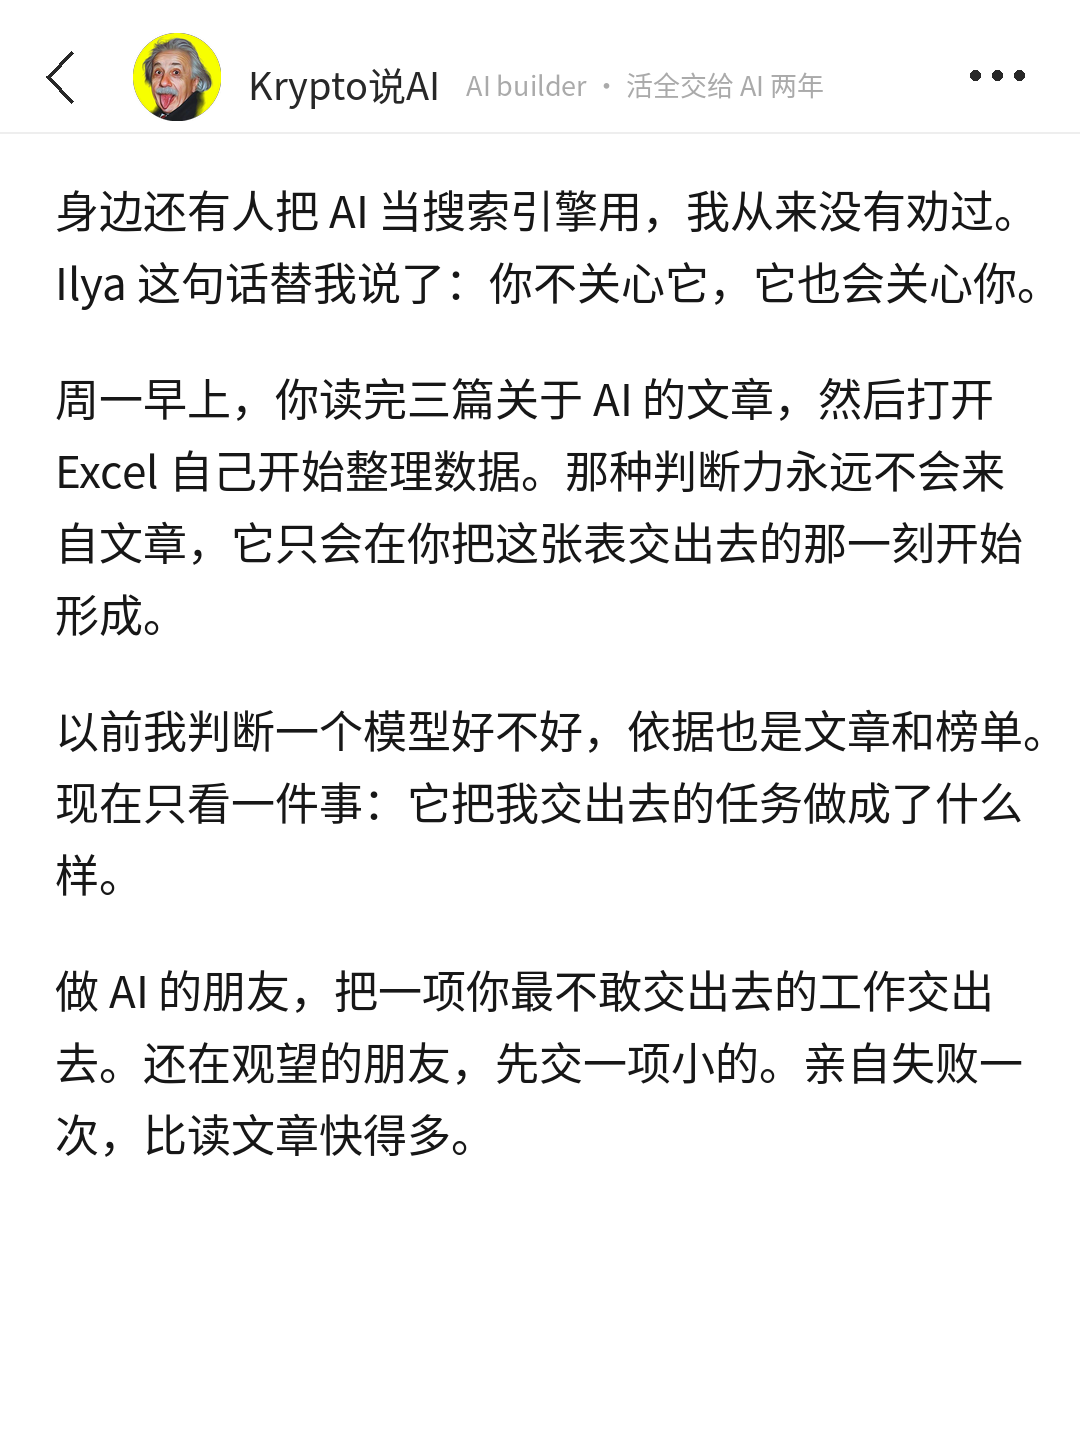
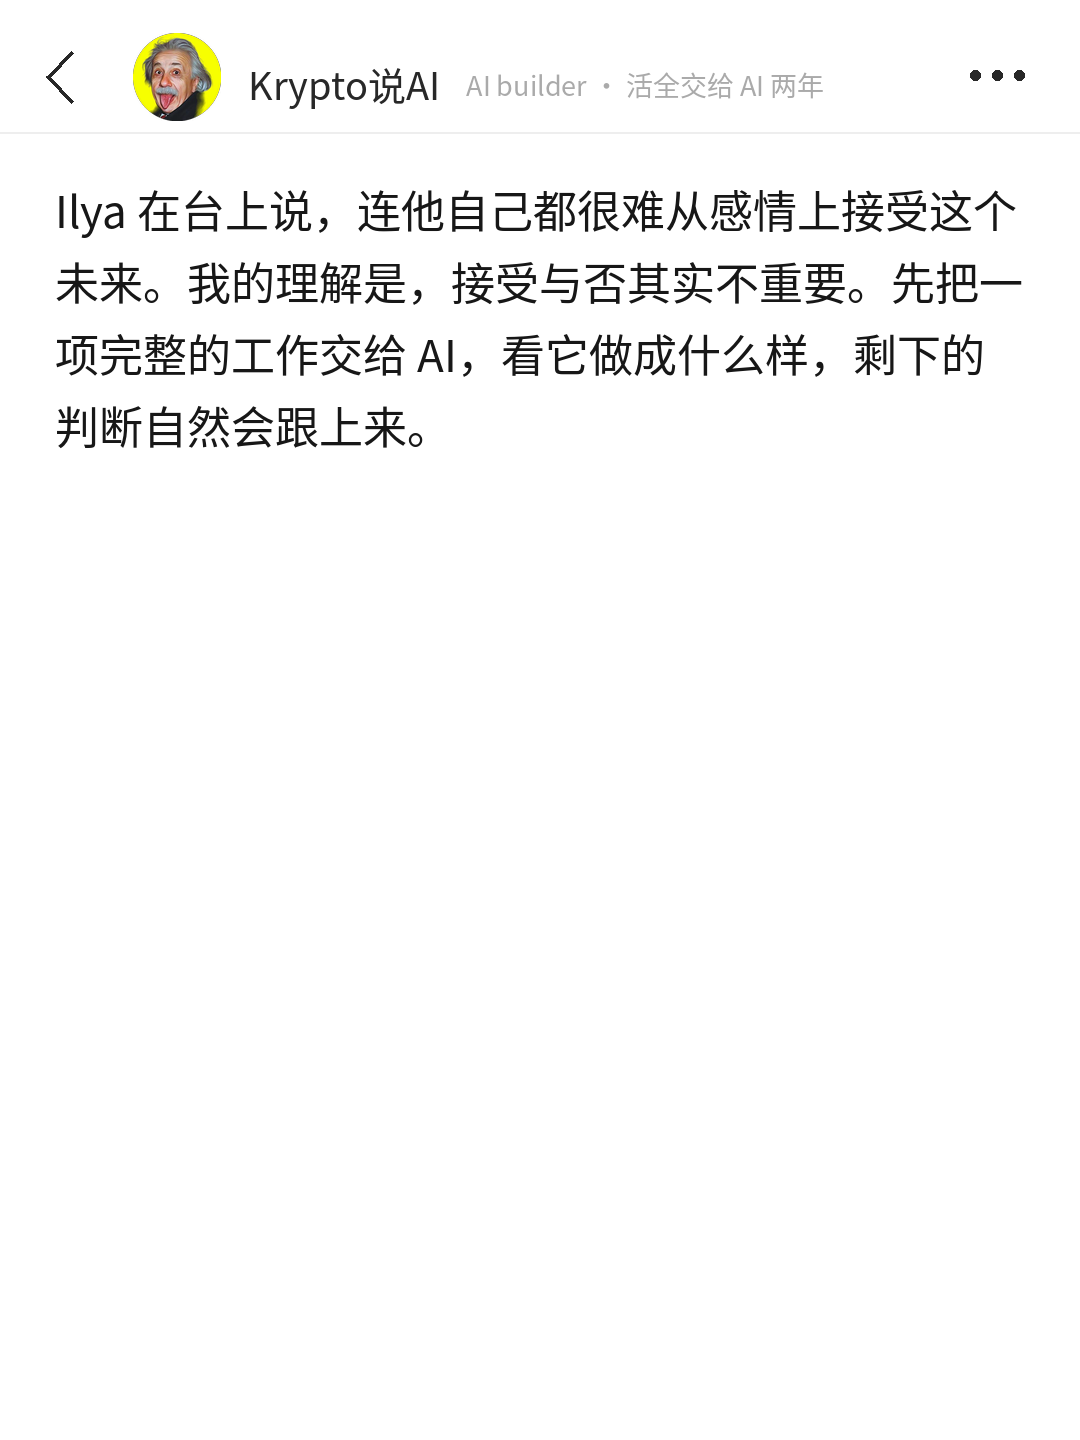
Ilya 稿末页去掉叠加的四个槽位；v2 撤「你」段必放、结尾一种就够
Claude-Session: https://claude.ai/code/session_017tvE9f3JBJNdHBN9dZEhix

diff --git a/CLAUDE.md b/CLAUDE.md
@@ -3,7 +3,7 @@
 这个仓库是小红书账号 **Krypto说AI** 的工作区，也是它的记忆。在这里做的每一篇稿子，先读本页，再读 `账号/档案.md`、`账号/经历库.md` 和 `账号/爆文方法论.md`（10-14 起，选题 / 标题 / 首图 / 原文跟发的发前清单，交付时逐条写过没过）。每次用户说了新的经历、新的观点、新的规则，写回这两份文件并更新本页摘要，不要只留在对话里。
 
 ## 摘要
-- **10-21 Ilya 多伦多演讲稿（meme-v2 第 2 篇，观察，value 行动，立场 B，`发布/2026-10-21_ilya-uoft-speech/meme-v2版/`，8 页）**：素材是用户发来的两段视频（@XAngus 字幕版，Ilya 2025-06-06 多伦多大学荣誉学位演讲，各 4 分 51 秒）。云端拿不到 Whisper 模型（HF 被代理拦，镜像也 403），改用 rapidocr 读烧录字幕：part1 逐秒 OCR（291 帧跑了 10 分钟，用户说「不用跑每一帧」），part2 改用 ffmpeg 场景切换只抽字幕变化帧（103 帧）。逐字稿在 `编辑用/source.md`，十张截图在 `编辑用/shots/`（都带人脸 + 关键字幕）。用户没走先问（「即可」），默认：stance「对 AI 的直觉买不来也读不来，只能拿自己的一件活去换」（B），「我」用 #18 #9 #19，代价是 #9 Codex 定时 sites（代价列已填），回指 10-18 Anthropic 就业稿。标题「Ilya毕业演讲：AI会做你能做的一切」，备选「强烈建议看看Ilya这场毕业演讲。」「Ilya说的，很多人只听了前半句。」。check.py 0 ✗；修了 check.py 两处（刚好正则的或运算没加括号、回指正则漏「那篇时我提过」）。以后视频素材没字幕走 OCR 时，直接用场景切换抽帧，不逐秒。**用户看稿后退两处**：「他」太频繁（21 个，每千字 18）、五句字幕翻译腔（「这话常有人说，这次是真的」「他只给一点」「还得追赶」「他引了一句话」「直觉会越来越强」）。改后「他」5 个；v2 指南 §5 加两条换性质的规则：转述主语轮着来（名字 / 省略 / 内容当主语 / 原话，「他」每千字 ≤8，check.py ⚠）、字幕和转录来的句子不照字面转述。改前存 `draft_v1_他太多.md`。**三退（用户定 v2 用词口径）**：划「有人说三年就到」「拿自己的活去换」「我自己量出来的」「有没有长出来」「那该怎么办？他借了……」，原话「动词用『到』这种单字，名词用『活』，一看就是 AI 写的，要让读者感觉是一个科技 AI 栏目的主编这种内容工作者写的文字」。整篇按主编口径重写（改前存 `draft_v2_口语单字.md`）：双字谓语、「活」换成工作 / 任务、不自问自答、不用「直觉长出来」这类自造口语比喻；v2 指南 §5 加这条，check.py 加「活」≥2 和「去 / 就 / 才 + 单字动词收尾」⚠。小盖式「像跟朋友聊」的口吻在 v2 里让位给主编口径。**用户定「记进 v2，不能再犯」**：主编口径写进 `skills/meme-v2/SKILL.md` 一句话原则下，「改这份 skill 之前先读」加第 4 道门「口语不等于真人感」，不往 v2 加任何口语 / 毛边类要求。**用户看主编口径版：「内容有改进了」，标题要带他的头衔（天然流量）**：标题改「OpenAI联创Ilya：AI会做一切」，备选「强烈推荐OpenAI联创Ilya演讲。」「OpenAI联创说的，很多人只听了前半句」，keyword 改 OpenAI；v2 指南 §8 加「人物稿标题带头衔或机构」
+- **10-21 Ilya 多伦多演讲稿（meme-v2 第 2 篇，观察，value 行动，立场 B，`发布/2026-10-21_ilya-uoft-speech/meme-v2版/`，8 页）**：素材是用户发来的两段视频（@XAngus 字幕版，Ilya 2025-06-06 多伦多大学荣誉学位演讲，各 4 分 51 秒）。云端拿不到 Whisper 模型（HF 被代理拦，镜像也 403），改用 rapidocr 读烧录字幕：part1 逐秒 OCR（291 帧跑了 10 分钟，用户说「不用跑每一帧」），part2 改用 ffmpeg 场景切换只抽字幕变化帧（103 帧）。逐字稿在 `编辑用/source.md`，十张截图在 `编辑用/shots/`（都带人脸 + 关键字幕）。用户没走先问（「即可」），默认：stance「对 AI 的直觉买不来也读不来，只能拿自己的一件活去换」（B），「我」用 #18 #9 #19，代价是 #9 Codex 定时 sites（代价列已填），回指 10-18 Anthropic 就业稿。标题「Ilya毕业演讲：AI会做你能做的一切」，备选「强烈建议看看Ilya这场毕业演讲。」「Ilya说的，很多人只听了前半句。」。check.py 0 ✗；修了 check.py 两处（刚好正则的或运算没加括号、回指正则漏「那篇时我提过」）。以后视频素材没字幕走 OCR 时，直接用场景切换抽帧，不逐秒。**用户看稿后退两处**：「他」太频繁（21 个，每千字 18）、五句字幕翻译腔（「这话常有人说，这次是真的」「他只给一点」「还得追赶」「他引了一句话」「直觉会越来越强」）。改后「他」5 个；v2 指南 §5 加两条换性质的规则：转述主语轮着来（名字 / 省略 / 内容当主语 / 原话，「他」每千字 ≤8，check.py ⚠）、字幕和转录来的句子不照字面转述。改前存 `draft_v1_他太多.md`。**三退（用户定 v2 用词口径）**：划「有人说三年就到」「拿自己的活去换」「我自己量出来的」「有没有长出来」「那该怎么办？他借了……」，原话「动词用『到』这种单字，名词用『活』，一看就是 AI 写的，要让读者感觉是一个科技 AI 栏目的主编这种内容工作者写的文字」。整篇按主编口径重写（改前存 `draft_v2_口语单字.md`）：双字谓语、「活」换成工作 / 任务、不自问自答、不用「直觉长出来」这类自造口语比喻；v2 指南 §5 加这条，check.py 加「活」≥2 和「去 / 就 / 才 + 单字动词收尾」⚠。小盖式「像跟朋友聊」的口吻在 v2 里让位给主编口径。**用户定「记进 v2，不能再犯」**：主编口径写进 `skills/meme-v2/SKILL.md` 一句话原则下，「改这份 skill 之前先读」加第 4 道门「口语不等于真人感」，不往 v2 加任何口语 / 毛边类要求。**用户看主编口径版：「内容有改进了」，标题要带他的头衔（天然流量）**：标题改「OpenAI联创Ilya：AI会做一切」，备选「强烈推荐OpenAI联创Ilya演讲。」「OpenAI联创说的，很多人只听了前半句」，keyword 改 OpenAI；v2 指南 §8 加「人物稿标题带头衔或机构」。**四退（末页「有点强行加」）**：末页叠了「没劝过的人」+「你」的时刻 + 以前 / 现在 + 两类读者四个槽位，全删，结尾改成一段「接受与否不重要，先交一项完整的工作」；v2 撤「你」段必放（改可选）、结尾「以前现在 + 两类读者」改成一种就够一段写完。改前存 `draft_v3_结尾叠槽位.md`
 - **10-21 Jack Clark 稿 v2 版（meme-v2 第 1 篇，A/B 的 B 面，`发布/2026-10-21_jack-clark-imf/meme-v2版/`，8 页）**：同一份素材，A 面是 meme版（meme-xhs 写的编号体 4 节）。用户「你定」，默认：stance「AI 越是能改专家的作业，人越得自己先算一遍」（A），reader 写成时刻「刚把数据分析交给 AI、看一眼就转发给老板的人」，cost 用 #25 看板漏 bug（代价列已填），读者直觉段「那我更没必要自己算了 → 我的体会相反」，「我」用 #8 #20 #25。评论员式连贯短文不编号，结尾落到「每周留一件活自己算」。check.py 0 ✗ 0 ⚠；写这篇时修了 check.py 三个误报（「正好」撞 AI 判成刚好式植入、Jack Clark 拆成两个专名、专名后人话的词表漏了「的」）。标题沿用用户 10-19 定的「Anthropic联创：专家竟被AI纠错」，备选加「强烈建议看看Anthropic这场讲座。」「Anthropic联创说的，我信一半。」。**第一版被用户退回**（「断句很奇怪，不像正常叙事顺序」，让我以 36 氪主编身份自评，答：不是正常栏目能发的）：第一句「物理学家被 AI 改对了答案」搭配怪、一句转三次；第二段逗号串四个分句主语换四次；事件切两半夹履历；前四段叠了四种开场（判断 / 点读者 / 读者直觉 / 我的经历），是换了槽位的凑槽位。重写成「舞台 → 事件讲完 → 我一句反应 → stance 自然带出」，改前存 `draft_v1_开场叠开场.md`。**v2 改三条（都是撤或换性质）**：开头只做一件事、「我最想说的一件事是」和「让读者对上号」从首页必放降为可选；一句话一个主语、逗号不连三个以上独立分句；check.py 加提示级「逗号 ≥4 的句子念一遍」。**二退**（用户划「我看完这段，想的不是 AI 有多厉害，是我自己有多久没回去查过它交上来的东西了」「这是我整场听下来最想说的一句」，问是哪条规则写的：小学生倒装句、观点破碎、句子都很短）：溯源是「第一句要有我的处境」+「不写我觉得」+「一句一段」叠出的倒装，和 Echo「我最想说的一件事」挪到句尾的残留，观点被拆在三处各半句。两句删掉，判断写成一段完整论证，「我」的反应并进经历段。v2 再改：撤「我只给一句反应」和 check.py「前四段没有我」⚠，加「判断只论证一次、不贴标签」（check.py ✗）。**用户定「记下来，v2 不能再犯」**：病根是用换一批槽位的方式去掉槽位，写进 `skills/meme-v2/SKILL.md`「改这份 skill 之前先读」三道门（会不会变成固定位置 / 范例句不是必放句 / 一个观点只论证一次），以后改 v2 任何一条先过这三道门。发哪版用户定
 - **10-21 用户定三件事**：① **新建 `/meme-v2`**（`skills/meme-v2/`，跟 meme-xhs 做 A/B，发哪版用户定，日志 series 标 `meme` 或 `meme-v2`，3 篇后看每千次观看涨粉再定留不留）：SKILL 86 行只有当前规则、无日期补丁（历史在 `references/changelog.md`），writing_guide 107 行按「我在场且付过代价 / 判断对世界下 / 每句写到结果才停」重写，`scripts/check.py` 16 ✗ 26 ⚠（meme_check 44 / 81），新增专名首现后 20 字内要有人话、单句段性质、stance 宾语是世界三项；出图 / 首页 / 公众号复用 meme-xhs 脚本；② **改输入现在就开始，两个 skill 都用**：写稿前先问加 ⑥ 你付过什么代价、⑦ 读者按直觉会怎么想；`账号/经历库.md` 加「代价（丢了什么）」列（现有 28 条空着，写稿时顺手补问）；`reader:` 写读者的具体时刻不写职业；v2 front matter 多一个 `cost`；③ `对标/玉伯_YouMind/` 并进 `对标/玉伯/`（原文相同，第二份拆解接在后面）
 - **10-21 对标库总索引 + 全量蒸馏 + meme-xhs 改造清单（待用户定）**：`对标/README.md`（按文体 / 题材挑先读哪篇，写稿第 0 步查它）、`对标/蒸馏_2026-10-21_对标库全量.md`（16 个对标全读完：真人感靠十个机制，核心是「我」在场且付过代价、判断对世界下、读者直觉翻过来、专名后跟半句人话、因果连接词把句子扣死；一个月改输出 20 多次 0 条被证实，改输入 2 次 2 爆款）、`复盘/2026-10-21_meme-xhs改造清单.md`（25 条：8 条撤禁过头的、6 条从数数换成看句子说没说完、6 条改输入含经历库加「代价」列、5 条脚本和 SKILL 重写成单一版本）。用户点头前 SKILL 和脚本不动

diff --git a/发布/2026-10-21_ilya-uoft-speech/meme-v2版/编辑用/draft_v3_结尾叠槽位.md b/发布/2026-10-21_ilya-uoft-speech/meme-v2版/编辑用/draft_v3_结尾叠槽位.md
@@ -1,0 +1,50 @@
+---
+title: OpenAI联创Ilya：AI会做一切
+genre: 观察
+value: 行动
+reader: 每天追 AI 新闻、但手上的工作一项都还没交给 AI 的人
+stance: 对 AI 的判断力买不来也读不来，只能用自己的工作去换；读十篇解读不如自己失败一次
+stance_line: B
+cost: 让 Codex 定时生成 sites，背后 MCP 查询太重，token 烧得很快，数据一多页面组装就乱（经历库 #9）
+keyword: OpenAI
+keywords: Ilya, 多伦多大学, AI取代工作
+headline: OpenAI 联创 Ilya：AI 会做你能做的一切
+hero: shots/07_p2_68s.jpg
+hero_after: 1
+location: 香港
+account: Krypto说AI
+---
+
+今年 6 月，多伦多大学授予 OpenAI 联合创始人 Ilya Sutskever 荣誉学位。这是他在这所学校获得的第四个学位，二十年前的本科学位也是在同一个礼堂领取的，导师是 Geoffrey Hinton。演讲不到十分钟，开场先自嘲了一句：毕业演讲照例要给一些人生建议，这次不打算多讲，因为想讲的其实是另一件事。
+
+建议只留了一条：接受现实本来的样子，不要反复后悔过去，把精力放在下一步怎么走。Ilya 坦言这一条很难做到。人一遇到挫折，很容易反复回想当初哪个决定做错了、哪次运气不好、哪里不公平，一想就是大半天。更有效的做法是对自己说一句「好吧，事情已经这样了」，然后继续往前。他每次这样做，事情都会顺利一些。但他也承认，这是一场和自己情绪的长期拉锯，讲给台下的毕业生，也是讲给自己。
+
+![好吧，事情就是这样](shots/04_p1_177s.jpg)
+
+接下来才是正题。Ilya 认为，我们正处在有史以来最不寻常的年代。这种说法每一代人都听过，但这一次不是套话，原因是 AI。今天的 AI 已经在相当程度上改变了「做学生」的含义。你对着电脑说话，它能听懂，能回答，还能替你写代码。当然，它做不到的事情还有很多，不少领域仍然差得很远。有人预测三年，有人预测五年、十年，各种时间表满天飞。Ilya 的判断是：进展也许缓慢但确定无疑，也许根本不缓慢，AI 会持续变强，总有一天能完成我们能完成的所有工作。不是其中一部分，而是全部。任何他能学会的事情，任何台下这些人能学会的事情。
+
+凭什么这么肯定？他的论证只有一句话：每个人都有大脑，大脑是一台生物计算机，数字的大脑没有理由做不到同样的事。
+
+![一句话的论证](shots/06_p2_59s.jpg)
+
+讲到这里他停了一下，说你只要稍微想一想，就会觉得有些不安，而这还只是冲击的一部分。如果人类把 AI 用于更多研发，用于 AI 研究本身，进步的速度会快到难以想象。这些前景太极端了，很难从感情上真正接受。Ilya 的原话是：连我自己都很挣扎。
+
+![连我自己都很挣扎](shots/08_p2_161s.jpg)
+
+对于该怎么办，他借用了一句老话：你可以不关心政治，但政治会关心你。放在 AI 身上，这句话加倍成立。他给出的办法只有一个：去使用。把当下最好的模型用上一段时间，亲眼看看它能做什么，判断力自然会建立起来，而且会越来越准确。无论读多少文章、听多少解释，都比不上亲眼看一遍。
+
+![再多文章都比不上亲眼看到](shots/11_p2_225s.jpg)
+
+这场演讲里，我最看重的不是「AI 会做一切」那句判断，而是最后这个办法。因为对 AI 的判断力既买不来，也读不来，只能用自己的工作去换取。把一项完整的任务交给它，看它完成到什么程度，看它在哪个环节出错，判断力才会建立起来。读十篇解读，不如自己失败一次。
+
+很多人的做法恰恰相反：每天追 AI 新闻，觉得自己跟得很紧，手上的工作却一项都没有交出去。我的体会是，让我相信 AI 的事情，没有一件来自文章。以前做一次竞品调研要三天，现在交给 Claude 只要十分钟；以前每天要花一小时跟进行业动态，现在早上用五分钟看 Grok 整理的摘要就够了。这两个数字是我自己测出来的，不是任何人告诉我的。
+
+失败的经历同样重要。我曾经让 Codex 定时生成一批数据站点，背后每次都要执行很重的 MCP 查询和计算。结果 token 消耗极快，数据量一大，页面组装就会出错。经历了这次失败，我才知道它在哪个环节不可靠，也才知道哪类工作应该留给自己。这种判断力，看一百条「Codex 又更新了」的推文也得不到。上周写 Anthropic 就业报告那篇时我提到过，今年面试校招生，我问的是他们做过什么 agent，因为我想确认的正是这种判断力是否已经建立。
+
+身边还有人把 AI 当搜索引擎用，我从来没有劝过。Ilya 这句话替我说了：你不关心它，它也会关心你。
+
+周一早上，你读完三篇关于 AI 的文章，然后打开 Excel 自己开始整理数据。那种判断力永远不会来自文章，它只会在你把这张表交出去的那一刻开始形成。
+
+以前我判断一个模型好不好，依据也是文章和榜单。现在只看一件事：它把我交出去的任务做成了什么样。
+
+做 AI 的朋友，把一项你最不敢交出去的工作交出去。还在观望的朋友，先交一项小的。亲自失败一次，比读文章快得多。

diff --git a/skills/meme-v2/references/writing_guide.md b/skills/meme-v2/references/writing_guide.md
@@ -55,7 +55,7 @@
 
 **专名和数字第一次出现，后面 20 字内跟半句人话**（玉伯：「Apple II，很多人小学机房里用的就是它」「12 磅约合 5.4 公斤，一个人拎得动」；Kai：「其实和 codex 差不多，只是是 deepseek 做的」）。专名首页出现一次，后面写「他」「这个模型」「那家公司」。一句话最多一个锚点。
 
-**「你」的处境跟「我」的处境并列**（西元：「你知道数据不太对，留存在跌，但你告诉自己也许下一个版本会好一些」）。至少一段主语是「你」，写 `reader` 那个具体时刻。
+**「你」的处境可选，不是必放**（10-21 起）。有就跟「我」的处境并列着写（西元：「你知道数据不太对，留存在跌，但你告诉自己也许下一个版本会好一些」）。至少一段主语是「你」，写 `reader` 那个具体时刻。
 
 **让步带事实，转折带新框架**（小盖：「当然，计算机专业的学生在技术原理上有自己的优势。但随着 Coding Agent 的普及，很多过去要专业程序员的事，普通学生也可以尝试了」）。「他可能是对的。但……」这种空让步不写。替读者问出的反驳（「有人会说，小模型不也能做吗？确实……真正难的是……」）要用。
 
@@ -83,7 +83,7 @@
 
 ## 6. 结尾
 
-三选一，都不是行业判断：
+**一种就够，不叠加**（10-21 用户看 Ilya 稿末页「有点强行加的感觉」：那一页叠了「没劝过的人」+「你」的时刻 + 以前 / 现在 + 两类读者各一句，四个槽位一页，每个都是规则要的，没有一个是文章要的）。结尾从下面挑一种，写一段，写完就停：
 - **落到自己一件小事**（MemeInformation：「每个月花大几百块买的投研工具会员确实不太划算，该停一停了」）。
 - **往下收一句评价**（小盖：「整体来说，还行还行。」）。
 - **「以前……现在……」+ 两类读者各一句**（「以前我面校招生问的是你做过什么，现在问的是你让 agent 做过什么。还在找工作的同学，带一个自己搭的 agent 来面试；已经工作几年的人，回头数数手上的活有几件还停在干活那一层」）。以前和现在必须是用户真实的变化。

diff --git a/发布/2026-10-21_ilya-uoft-speech/meme-v2版/编辑用/draft.md b/发布/2026-10-21_ilya-uoft-speech/meme-v2版/编辑用/draft.md
@@ -41,10 +41,4 @@ account: Krypto说AI
 
 失败的经历同样重要。我曾经让 Codex 定时生成一批数据站点，背后每次都要执行很重的 MCP 查询和计算。结果 token 消耗极快，数据量一大，页面组装就会出错。经历了这次失败，我才知道它在哪个环节不可靠，也才知道哪类工作应该留给自己。这种判断力，看一百条「Codex 又更新了」的推文也得不到。上周写 Anthropic 就业报告那篇时我提到过，今年面试校招生，我问的是他们做过什么 agent，因为我想确认的正是这种判断力是否已经建立。
 
-身边还有人把 AI 当搜索引擎用，我从来没有劝过。Ilya 这句话替我说了：你不关心它，它也会关心你。
-
-周一早上，你读完三篇关于 AI 的文章，然后打开 Excel 自己开始整理数据。那种判断力永远不会来自文章，它只会在你把这张表交出去的那一刻开始形成。
-
-以前我判断一个模型好不好，依据也是文章和榜单。现在只看一件事：它把我交出去的任务做成了什么样。
-
-做 AI 的朋友，把一项你最不敢交出去的工作交出去。还在观望的朋友，先交一项小的。亲自失败一次，比读文章快得多。
+Ilya 在台上说，连他自己都很难从感情上接受这个未来。我的理解是，接受与否其实不重要。先把一项完整的工作交给 AI，看它做成什么样，剩下的判断自然会跟上来。
